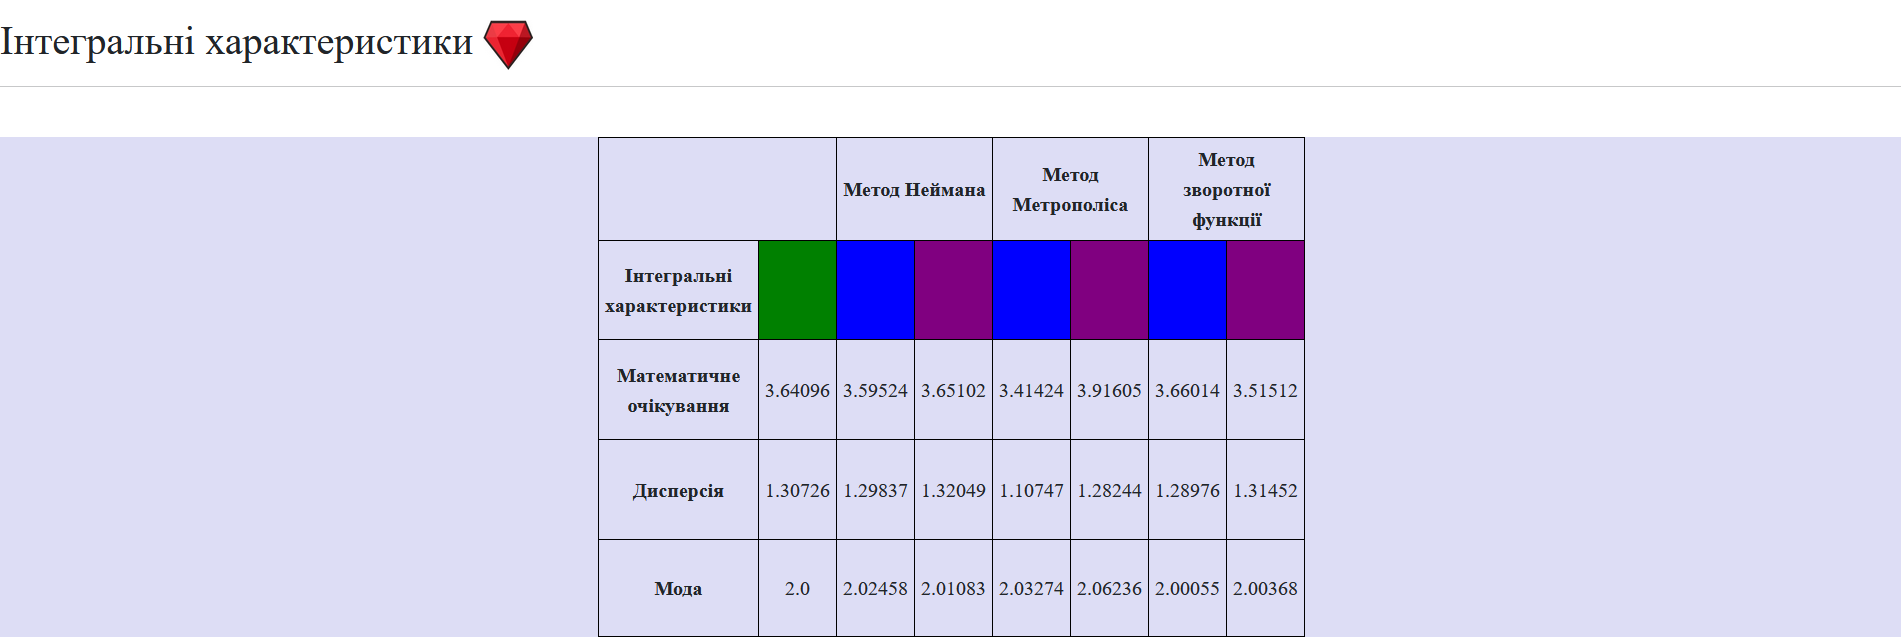
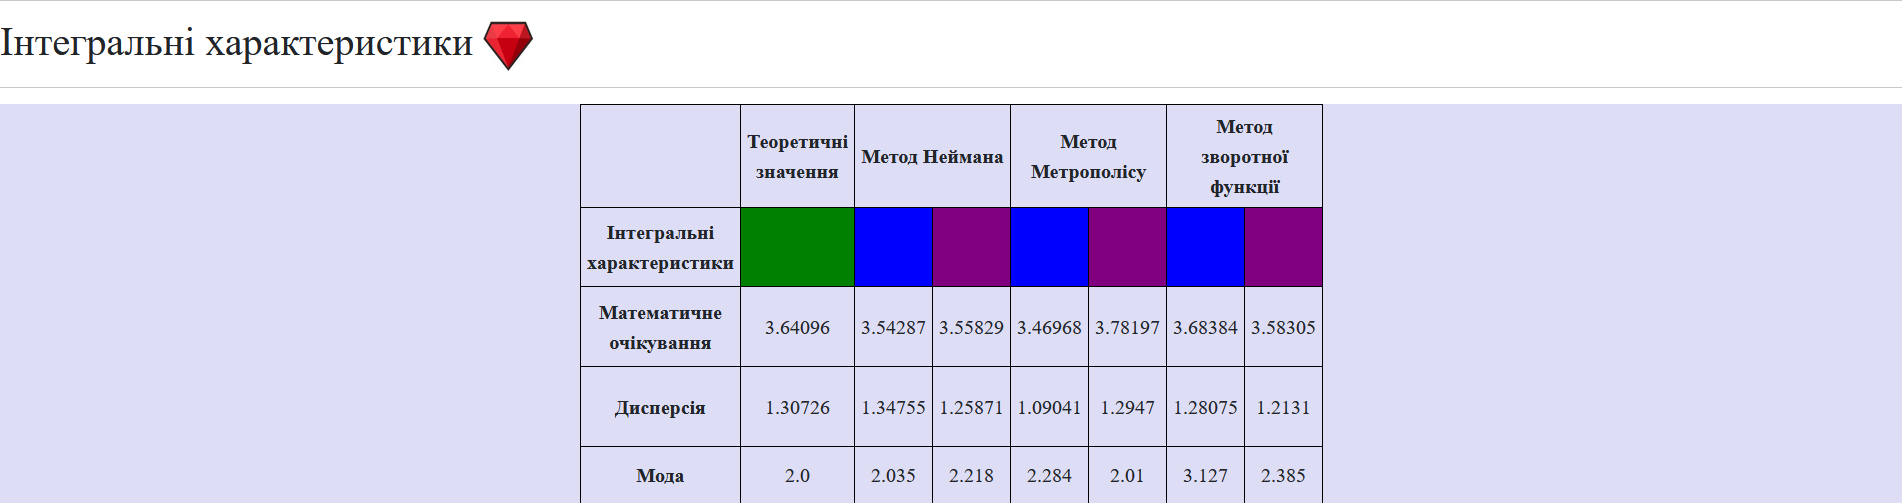
Update

Changed region(s): [[0.0, 0.2087, 1.0, 1.0], [0.0, 0.0298, 0.2793, 0.1491], [0.3104, 0.8946, 0.3724, 0.9543]]

diff --git a/app/assets/stylesheets/application.css b/app/assets/stylesheets/application.css
@@ -16,10 +16,10 @@
 table {
     border: 1px solid #000;
     width: 500px;
-    height: 500px;
+    height: 400px;
     box-sizing: border-box;
     border-collapse: collapse;
-    margin: 50px auto;
+    margin: 0 auto;
 }
 tr {
     border: 1px solid #000;

diff --git a/app/distribution/Modules.rb b/app/distribution/Modules.rb
@@ -32,7 +32,7 @@ module NeymanModule
     max = Float::MIN
     step = (bet - alf) / val_n
 
-    # розрахунок максимального значення W, розбитий інтервал 0,1 на N частин
+    # розрахунок максимального значення W
     alf.step(bet, step) do |i|
       temp = reciprocal(i, alf, bet)
 
@@ -50,42 +50,37 @@ module MetropolisModule
 
   def ran_rec_metropolis(alf, bet, val_n)
     result = []
+
+    # випадкове значення x_0 з якого стартує алгоритм
     x_0 = alf + (bet - alf) * rand
 
     del = (bet - alf) / 3.0
 
     (0...val_n).each do
+      # випадкове значення x
       x = x_0 + (-1 + 2 * rand) * del
 
-      if x > alf and x < bet
+      # визначення а
+      if x >= alf and x <= bet
         a = reciprocal(x, alf, bet) / reciprocal(x_0, alf, bet)
       else
         a = 0
       end
 
-      if a >= 1
+      # обирання випадкового значення x_0
+      if a > 1
         x_0 = x
       elsif rand < a
         x_0 = x
       end
 
+      # запис знечень до масиву
       result << x_0
     end
 
+    # результат
     result
   end
-
-=begin
-  def result_metropolis(alf, bet, val_n)
-    step = (bet - alf) / val_n
-
-    alf.step(bet, step) do
-      ran_rec_metropolis(alf, bet, val_n)
-    end
-
-    ran_rec_metropolis(alf, bet, val_n)
-  end
-=end
 end
 
 module ReverseModule
@@ -101,7 +96,9 @@ module ReverseModule
     (0...val_n).each do
       while 1
         temp = func_reverse(alf, bet)
-        if temp > alf and temp < bet
+
+        # перевірка потряпляння в проміжок
+        if temp >= alf and temp <= bet
           result << temp
           break
         end
@@ -257,11 +254,6 @@ module ResultModule
     (bet - alf) / Math.log(bet / alf)
   end
 
-  # мода
-  def result_mode(alf)
-    alf
-  end
-
   # дисперсія
   def result_dispersion(alf, bet)
     (((bet ** 2) - (alf ** 2)) / (2 * Math.log(bet / alf))) - (((bet - alf) / Math.log(bet / alf)) ** 2)
@@ -279,6 +271,7 @@ module ResultModule
   end
 
   # мода для серій
+=begin
   def result_mode_series(result_param)
     temp = result_param[0]
 
@@ -289,6 +282,19 @@ module ResultModule
     end
 
     temp
+  end
+=end
+
+  def result_mode_series(result_param)
+    result = {}
+
+    result_param.each do |word|
+      result[word.round(3)] ||= 0
+      result[word.round(3)] += 1
+    end
+    temp = result.size - 1
+
+    result.sort_by { |key, value| value }[temp][0]
   end
 
   # дисперсія для серій

diff --git a/app/controllers/reciprocals_controller.rb b/app/controllers/reciprocals_controller.rb
@@ -40,7 +40,7 @@ class ReciprocalsController < ApplicationController
     @series_two_reverse = series_visual(alf, bet, n_g, helper_frequencies.dig(:frequency_two_reverse))
 
     @average = result_average(alf, bet)
-    @mode = result_mode(alf)
+    @mode = alf
     @dispersion = result_dispersion(alf, bet)
 
     @average_series_one_neyman = result_average_series(helper_methods.dig(:neyman_for_first))
